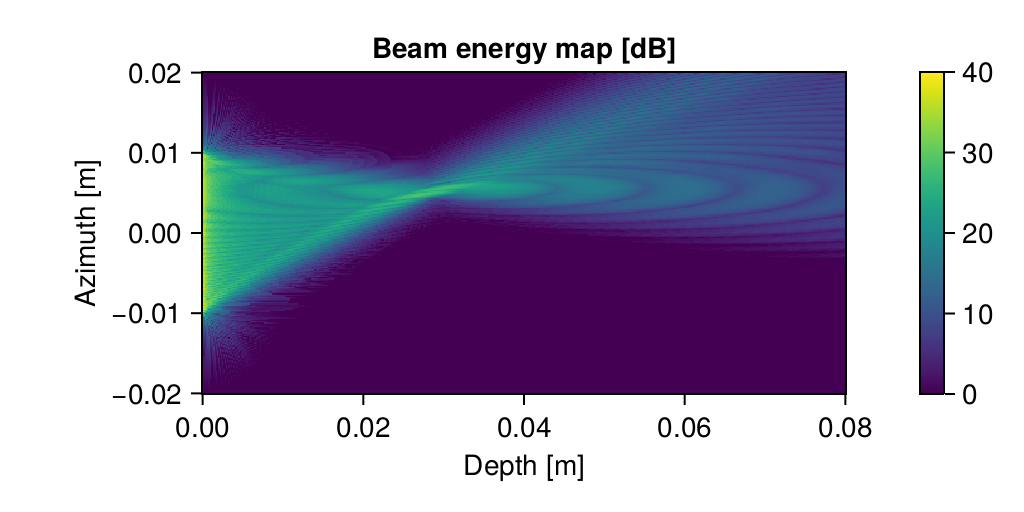
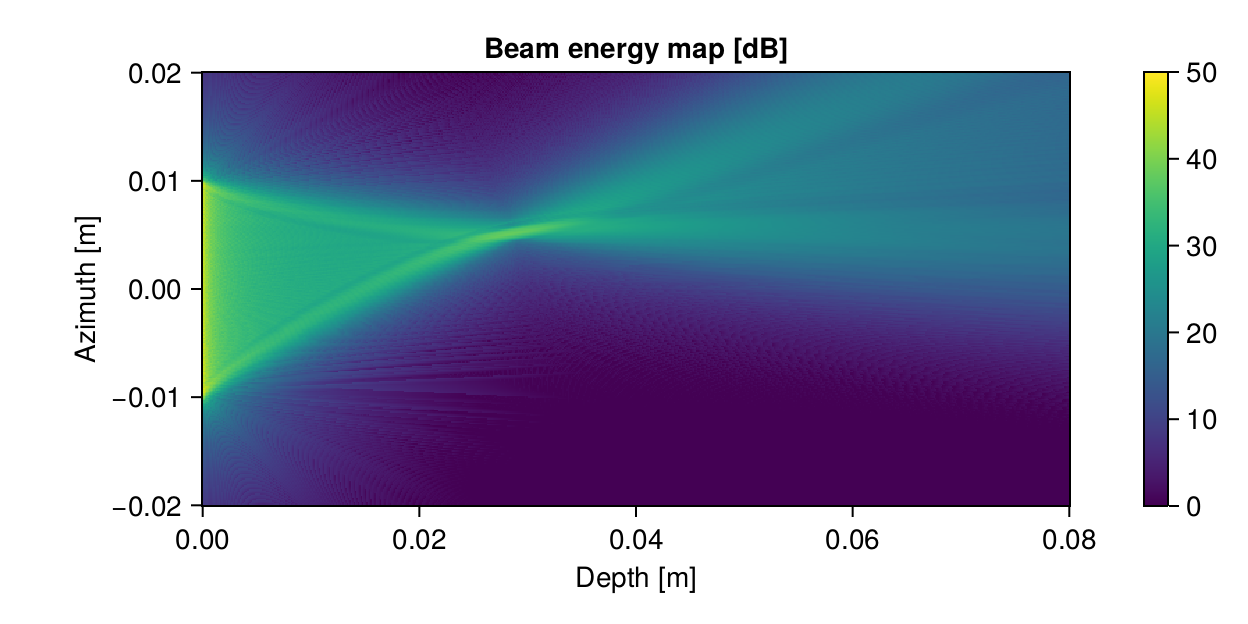
Add autores: temporal and spatial res and sim time

diff --git a/README.md b/README.md
@@ -13,10 +13,6 @@ Simulates the propagation of waves from multiple transmitting elements.
 Until this package gets registered, open the Julia environment from inside the package folder:
 ```
 julia --project=.
-# Check that the WaveSim environment is open:
-# press `]`
-(WaveSim) pkg>
-# press `backspace`
 ```
 
 ## Usage
@@ -24,17 +20,18 @@ julia --project=.
 ```
 using WaveSim
 
-# Define simulation parameters (use many default values, see WaveSimParameters).
+# Define simulation parameters (use many default values, see the WaveSimParameters struct).
 sim_params = WaveSimParameters(
     focus_depth = 0.03,  # [m]
     steer_angle = 10.0,  # [deg]
     aperture_size = 0.02,  # [m]
-    temporal_res = 0.1e-6,  # [s]
-    spatial_res = [128, 256]  # [pixels]
 );
 
-# Compute focusing delays for the elements of the phased array.
+# Compute focusing delay for the elements of the phased array.
 trans_delays = WaveSim.delays_from_focus_and_steer(sim_params);
+
+# (optional) Compute optimized "best" spatial and temporal parameters.
+sim_params = WaveSim.autores(sim_params, trans_delays)
 
 # Run the simulation.
 images = WaveSim.wavesim(trans_delays, sim_params);
@@ -53,7 +50,7 @@ Visualize the wave propagating through space, over time:
 
 ![wave propagation animation](images/wave_propagation.gif)
 
-Get a spatial heatmap of where the transmitted energy is sent:
+Get a spatial heatmap of where the energy went:
 
 ![beam energy map](images/beam_energy_map.png)
 
